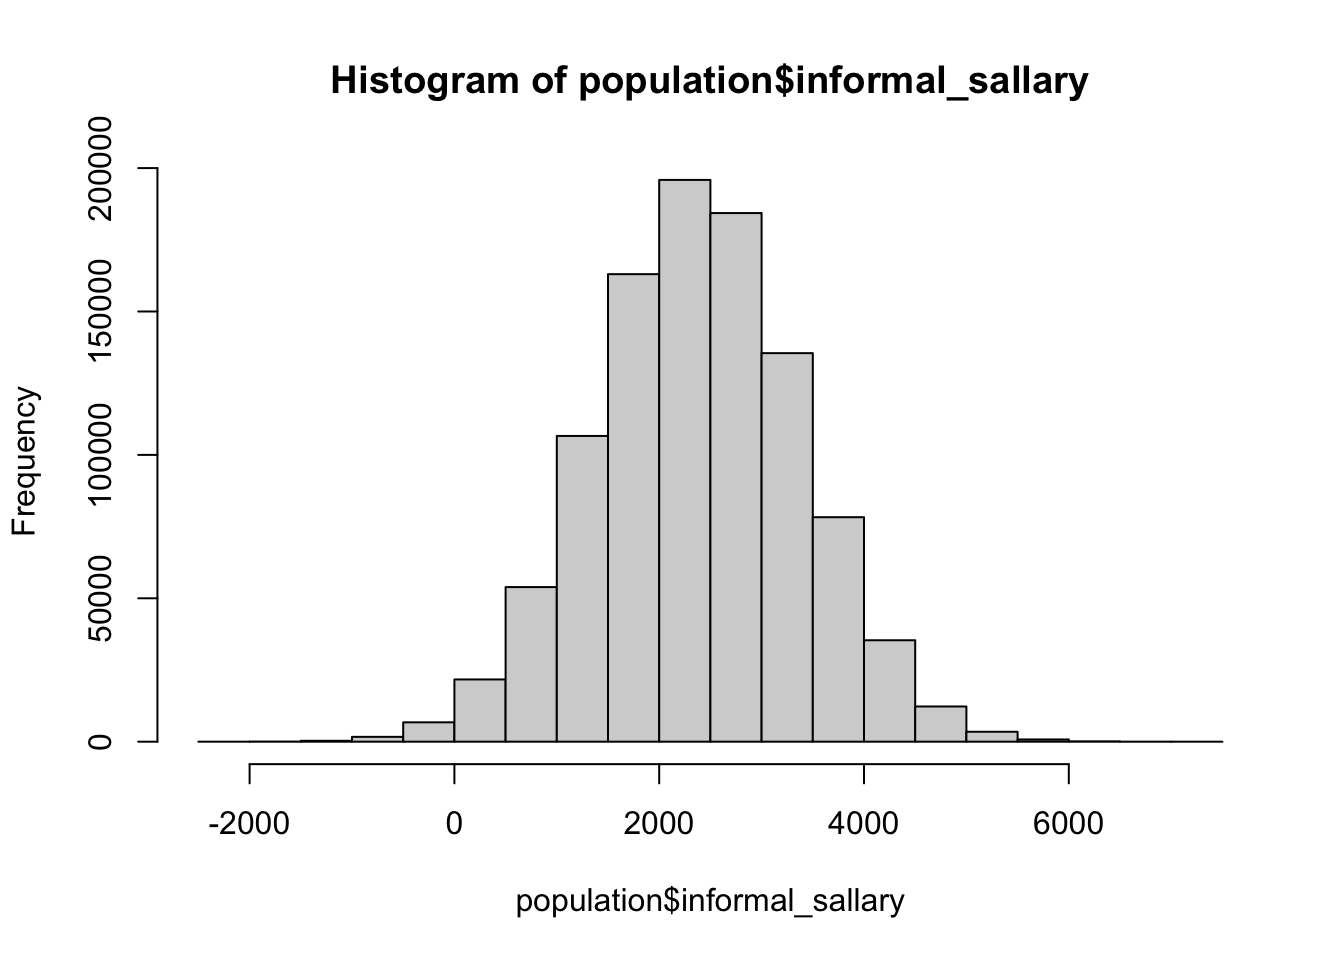
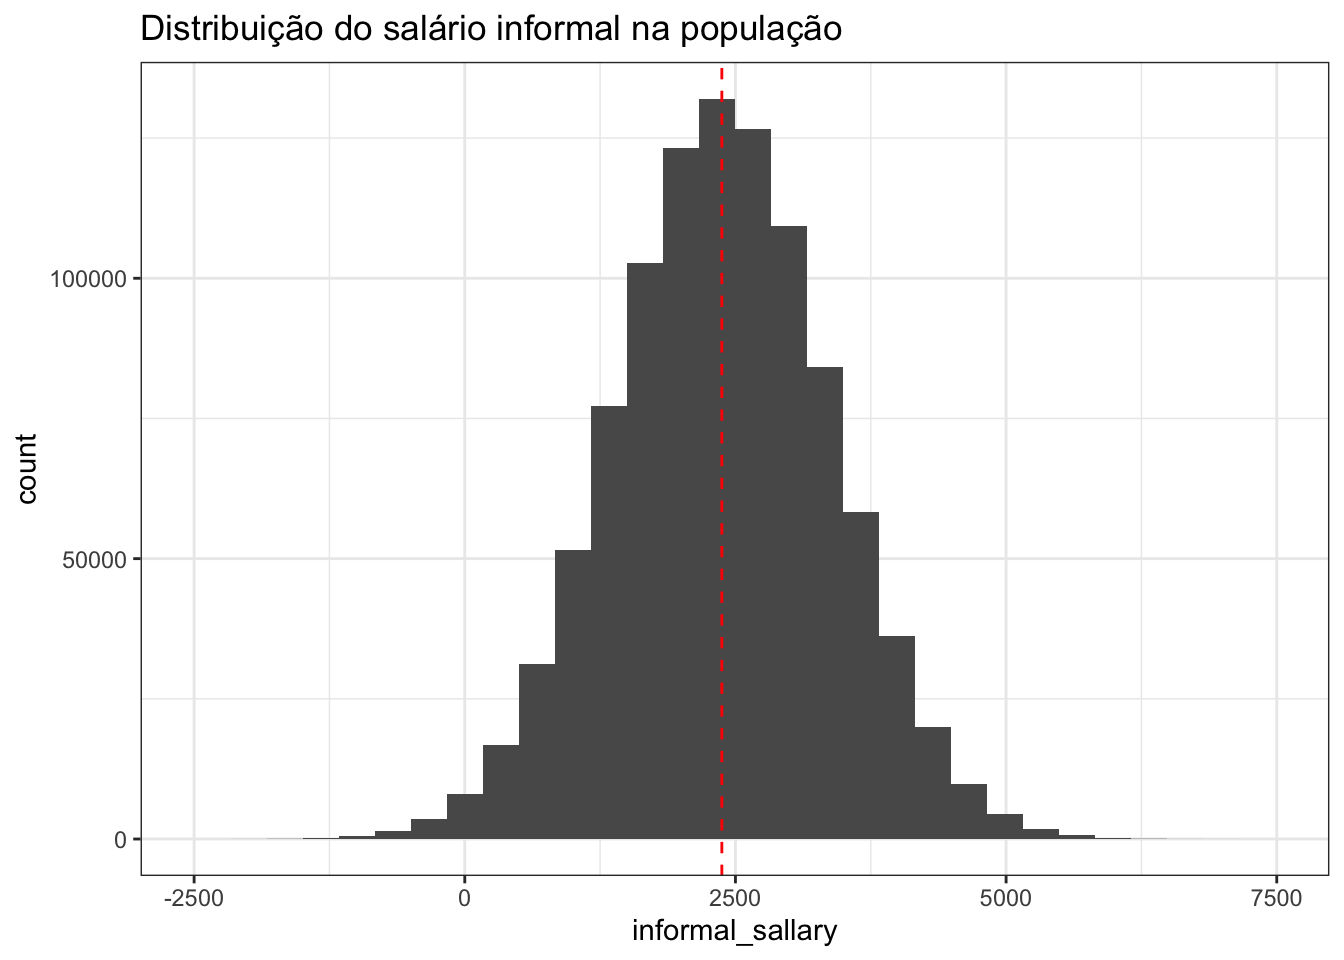
arrumando post

diff --git a/docs/posts/2025-07-16-estimators/index.html b/docs/posts/2025-07-16-estimators/index.html
@@ -236,18 +236,17 @@ pre > code.sourceCode > span > a:first-child::before { text-decoration: underlin
 <p>Para estimar parâmetros como a média, variância ou desvio-padrão de uma população, não bastaria simplesmente aplicar as mesmas fórmulas usadas para a população, mas utilizando os dados da amostra? [😱😱😱]</p>
 </blockquote>
 <p>Todos os questionamentos que passaram pela minha mente foram angustiantes… Por um bom tempo eu nem conseguia organizar essas dúvidas de forma que pudesse formular as perguntas certas… Infelizmente, muitos professores de exatas têm pouca sensibilidade para explicar conceitos que, para eles, são óbvios. E, quando migramos de área, entender esses conceitos iniciais é essencial para construir uma base sólida para todos os outros mil conceitos que virão pela frente.</p>
-<p>Depois de buscar diferentes professores, videoaulas e livros para entender essa afirmação (supostamente tão simples) feita pela minha professora de Inferência, percebi algo valioso: um dos melhores caminhos para consolidar um bom raciocínio em estatística é simular dados de uma população <em>(ou seja, desenhar uma população com parâmetros conhecidos)</em> e observar como as amostras extraídas dessa população se comportam. Quando conseguimos visualizar, de forma concreta, aquilo que antes era apenas um conceito abstrato, tudo começa a fazer mais sentido. E é exatamente essa a proposta deste post: explicar de maneira visual e prática, alguns conceitos que tanto me angustiaram lá atrás. Vamos ver, a partir de uma população fictícia, como os conceitos de parâmetros, estimadores e estimativas se conectam.</p>
+<p>Depois de buscar diferentes professores, videoaulas e livros para entender essa afirmação [supostamente tão simples] feita pela minha professora de Inferência, percebi algo valioso: um dos melhores caminhos para consolidar um bom raciocínio em estatística é simular dados de uma população (ou seja, desenhar uma população com parâmetros conhecidos) e observar como as amostras extraídas dessa população se comportam. Quando conseguimos visualizar, de forma concreta, aquilo que antes era apenas um conceito abstrato, tudo começa a fazer mais sentido. E é exatamente essa a proposta deste post: explicar, de maneira visual e prática, alguns conceitos que tanto me angustiaram lá atrás. Vamos ver, a partir de uma população fictícia, como as definições de parâmetros, estimadores e estimativas se conectam.</p>
 </section>
 <section id="introdução" class="level1">
 <h1>Introdução</h1>
 <p>Antes de começar o mão na massa, vamos dar uns passos atrás e recapitular o objetivo da Inferência Estatística…</p>
-<p>Como tomadores de decisão, é fundamental entender as características da população sobre a qual queremos atuar, afinal, ao conhecer bem esse grupo, conseguimos escolher o melhor caminho a seguir. Imagine, por exemplo, que você é líder de um país e precisa desenvolver políticas públicas voltadas ao trabalho informal. Para isso, entender alguns dados sobre como o trabalho informal se distribui pela população é essencial para orientar suas decisões e garantir que as medidas propostas sejam eficazes e bem direcionadas. Por exemplo, quantos habitantes do país possuem um trabalho informal? Quanto, em média, esses habitantes ganham mensalmente realizando atividaes informais? O trabalho informal é, em geral, a principal atividade das famílias? Com essas respostas em mãos fica muito mais claro para você, tomador de decisão, saber quais ações, se forem tomadas, podem melhorar a situação da população do país como um todo.</p>
-<p>Para obter as respostas das perguntas acima, temos duas possibilidades: a primeira seria entrevistar toda a população em busca de respostas. Essa saída é, contudo, muito complexa: imagina o tempo gasto e o custo para entrevistar todos os habitantes daquele país?! A outra possibilidade consiste em selecionar uma amostra dessa população para as entrevistas, reduzindo drasticamento o custo/tempo demandado para chegar nos dados que podem ajudar na tomada de decisão. Todavia, uma amostra da população não é população… e lembre-se: você, como líder de um país, precisa pensar em políticas públicas que vão ajudar todos os habitantes!</p>
-<p>Então, como podemos, a partir de uma amostra, chegar em uma conclusão sobre a população? A resposta está na Inferência Estatística! De forma simplificada, a Inferência Estatística é o ramo da estatística responsável por tirar conclusões sobre uma população com base em informações extraídas de uma amostra. Dessa maneira, conseguimos estimar características de uma população utilizando somente um amostra, facilitando o processo de entendimento da população como um todo.</p>
-<p>Como já disse acima, aprendi que para se entender conceitos abstratos em Estatística, nada melhor do que simularmos uma população e enxergar como os conceitos teóricos se materializam em um exemplo concreto. Pra isso, vamos continuar com exemplo de que precisamos entender como a renda obtida por trabalhos informais se distribui ao longo de uma população simulando o seguinte cenário: nosso país possui 1 milhão de habitantes com trabalho informal e a renda obtida por trabalhos informais desses habitantes vem de uma distribuição normal com média em R$2375 e desvio-padrão de R$1000</p>
-<p><em>A distribuição normal não é a mais adequada para simular a renda de uma população que, na prática, costuma ser assimétrica e concentrada em faixas específicas. Contudo, para facilitar a compreensão inicial, vamos usá-la como ponto de partida.</em></p>
-<p>Não vou entrar em detalhes sobre como amostrar essa popualaçao, entao vamos dar um salto de fé aqui e imaginar que conseguimos chegar em uma amostra altamente confiável dessa população de interesse. Para cada pessoa dessa amostra, computamos a renda média feita mensalmente através de trabalhos informais… e, com isso, chegamos em conclusão sobre a amostra… mas e aí, como conseguimos chegar em conclusões sobre a população?</p>
-<p>Vamos simular?</p>
+<p>Imagine que você é líder de um país e precisa desenvolver políticas públicas voltadas ao trabalho informal. Para isso, entender alguns dados sobre como o trabalho informal se distribui pela população é essencial para orientar suas decisões e garantir que as medidas propostas sejam eficazes e bem direcionadas. Por exemplo, quantos habitantes do país possuem um trabalho informal? Quanto, em média, esses habitantes ganham mensalmente realizando atividades informais? O trabalho informal é, em geral, a principal atividade das famílias? Com as respostas dessas perguntas em mãos, fica mais fácil pra você, como tomador de decisão, saber para qual lado guiar as suas propostas sobre esse tema.</p>
+<p>Então, para obter as respostas das perguntas acima, você tem duas possibilidades: a primeira consiste em entrevistar toda a população acerca das perguntas mencionadas. Essa saída não nos deixaria dúvidas sobre como o trabalho informal se distribui entre os habitantes do nosso país; contudo, é uma alternativa complexa: imagine o tempo e o custo que seriam gastos para entrevistar todos os habitantes do nosso país! A outra possibilidade consiste em selecionar uma amostra dessa população e realizar as entrevistas, reduzindo drasticamente o custo e o tempo demandados para obter os dados que podem nos ajudar na tomada de decisão. Todavia, uma amostra da população não é a população… E lembre-se: você, como líder de um país, precisa pensar em políticas públicas que vão ajudar <em>todos</em> os habitantes!</p>
+<p>Então, como podemos, a partir de uma amostra, chegar em uma conclusão sobre a população? A resposta está na <strong>Inferência Estatística</strong>! De forma simplificada, a Inferência Estatística é o ramo da estatística responsável por tirar conclusões sobre uma população com base em informações extraídas de uma amostra. Dessa maneira, conseguimos estimar características de uma população utilizando somente um amostra, facilitando o processo de entendimento da população como um todo.</p>
+<p>Como já disse acima, aprendi que para se entender conceitos abstratos em estatística, nada melhor do que simular uma população para visualizar como os conceitos teóricos se materializam em um exemplo concreto. Para isso, vamos continuar com o problema já estabelecido de que você é o líder de um país e precisa entender como a renda obtida por trabalhos informais se distribui ao longo da população. Começaremos por simular a população desse país da seguinte maneita: o país possui 1 milhão de habitantes com trabalho informal e a renda obtida pelo trabalho informal desses habitantes vem de uma distribuição normal com média em R$2375 e desvio-padrão de R$1000.</p>
+<p>⚠ <em>A distribuição normal não é a mais adequada para simular a renda de uma população que, na prática, costuma ser assimétrica e concentrada em faixas específicas. Contudo, para facilitar a compreensão inicial, vamos usá-la como ponto de partida.</em></p>
+<p>Abaixo, temos o código usado para gerar nossa população e temos uma tabela mostrando um exemplo de 5 indivíduos da população gerada. (Considere a coluna “id” como um identificador único de cada indivíduo… como se fosse o CPF de cada pessoa, por exemplo.)</p>
 <div class="cell">
 <div class="sourceCode cell-code" id="cb1"><pre class="sourceCode r code-with-copy"><code class="sourceCode r"><span id="cb1-1"><a href="#cb1-1" aria-hidden="true" tabindex="-1"></a><span class="co"># definindo o tamanho da população</span></span>
 <span id="cb1-2"><a href="#cb1-2" aria-hidden="true" tabindex="-1"></a>pop_size <span class="ot">&lt;-</span> <span class="dv">1000000</span></span>
@@ -300,6 +299,7 @@ pre > code.sourceCode > span > a:first-child::before { text-decoration: underlin
 
 </div>
 </div>
+<p><br> O histograma a seguir nos mostra como é a distribuição do salário informal para todos os habitantes desse nosso país criado.</p>
 <div class="cell">
 <div class="cell-output-display">
 <div>
@@ -309,44 +309,11 @@ pre > code.sourceCode > span > a:first-child::before { text-decoration: underlin
 </div>
 </div>
 </div>
-<p>Temos certeza da média populacional porque determinados ela: mean = 2375, sd = 1000. Imagina que retiramos uma amostr dessa população de 100 pessoas</p>
-<div class="cell">
-<div class="cell-output cell-output-stdout">
-<pre><code># A tibble: 100 × 2
-       id informal_sallary
-    &lt;int&gt;            &lt;dbl&gt;
- 1 969167            1588.
- 2 188942            4289.
- 3 134058            2798.
- 4 124022            2746.
- 5 685285            1212.
- 6 226318            2429.
- 7 365209            2518.
- 8 648795            1475.
- 9 985797            3073.
-10 193627            1308.
-# ℹ 90 more rows</code></pre>
-</div>
-</div>
-<div class="cell">
-<div class="cell-output cell-output-stdout">
-<pre><code>[1] 2399.828</code></pre>
-</div>
-</div>
-<div class="cell">
-<div class="cell-output cell-output-stdout">
-<pre><code>Média populacional real: 50.00977 
-Média das médias amostrais (não viesado): 49.99139 
-Média das médias enviesadas: 50.70219 </code></pre>
-</div>
-<div class="cell-output-display">
-<div>
-<figure class="figure">
-<p><img src="index_files/figure-html/unnamed-chunk-7-1.png" class="img-fluid figure-img" width="672"></p>
-</figure>
-</div>
-</div>
-</div>
+<p>Sendo assim, se tivéssemos tempo e dinheiro para entrevistar todos os habitantes do nosso país, chegaríamos na conclusão de que a média do salário informal desses indivíduos é de <strong>R$2374.48</strong> (linha vermelha tracejada no gráfio acima), com um desvio-padrão de <strong>R$999.93</strong>. Para começar a formalizar um pouco o que estamos vendo, temos uma primeira definição importante: a média e o desvio-padrão (e quaisquer outras medidas descritivas da população) são chamados de <em>parâmetros</em> da população.</p>
+<blockquote class="blockquote">
+<p>🔎 <em>Parâmetros</em> de uma população são valores fixos e verdadeiros que descrevem características quantitativas dessa população. Eles representam medidas que resumem algum aspecto da população como um todo.</p>
+</blockquote>
+<p>Como, em geral, nunca saberemos o valor real de um parâmetro da população (a não ser que seja feita uma pesquisa em toda a população), o melhor que podemos fazer é utilizar técnicas de Inferência Estatística para estimar esse valor. Dessa maneira, a partir de uma amostra extraída dessa população, utilizamos algum <em>estimador</em> para obter um valor que imaginamos ser próximo o suficiente do valor real do parâmetro.</p>
 
 
 </section>

diff --git a/docs/index.html b/docs/index.html
@@ -190,7 +190,7 @@ window.Quarto = {
 <h1>Posts</h1>
 <div id="listing-posts-listing" class="quarto-listing quarto-listing-container-grid">
 <div class="list grid quarto-listing-cols-3">
-<div class="g-col-1" data-index="0" data-listing-date-sort="1752634800000" data-listing-file-modified-sort="1753109845649" data-listing-date-modified-sort="NaN" data-listing-reading-time-sort="7" data-listing-word-count-sort="1308">
+<div class="g-col-1" data-index="0" data-listing-date-sort="1752634800000" data-listing-file-modified-sort="1753322257787" data-listing-date-modified-sort="NaN" data-listing-reading-time-sort="8" data-listing-word-count-sort="1535">
 <a href="./posts/2025-07-16-estimators/index.html" class="quarto-grid-link">
 <div class="quarto-grid-item card h-100 card-left">
 <p class="card-img-top">

diff --git a/docs/posts.html b/docs/posts.html
@@ -199,7 +199,7 @@ window.Quarto = {
 <p><br></p>
 <div id="listing-posts-listing" class="quarto-listing quarto-listing-container-grid">
 <div class="list grid quarto-listing-cols-3">
-<div class="g-col-1" data-index="0" data-listing-date-sort="1752634800000" data-listing-file-modified-sort="1753109845649" data-listing-date-modified-sort="NaN" data-listing-reading-time-sort="7" data-listing-word-count-sort="1308">
+<div class="g-col-1" data-index="0" data-listing-date-sort="1752634800000" data-listing-file-modified-sort="1753322257787" data-listing-date-modified-sort="NaN" data-listing-reading-time-sort="8" data-listing-word-count-sort="1535">
 <a href="./posts/2025-07-16-estimators/index.html" class="quarto-grid-link">
 <div class="quarto-grid-item card h-100 card-left">
 <p class="card-img-top">
